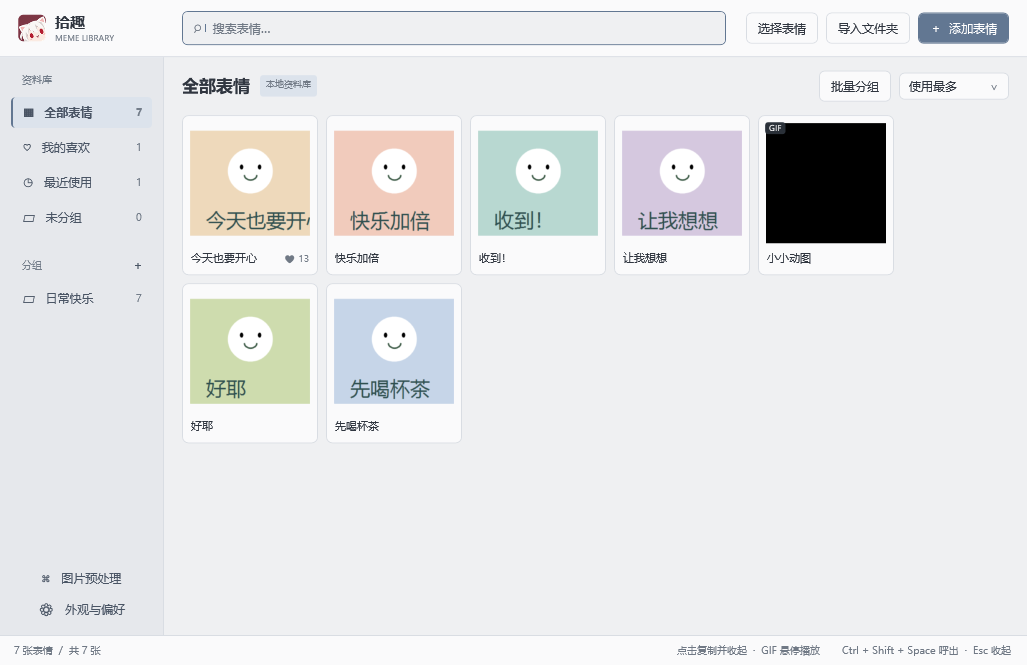
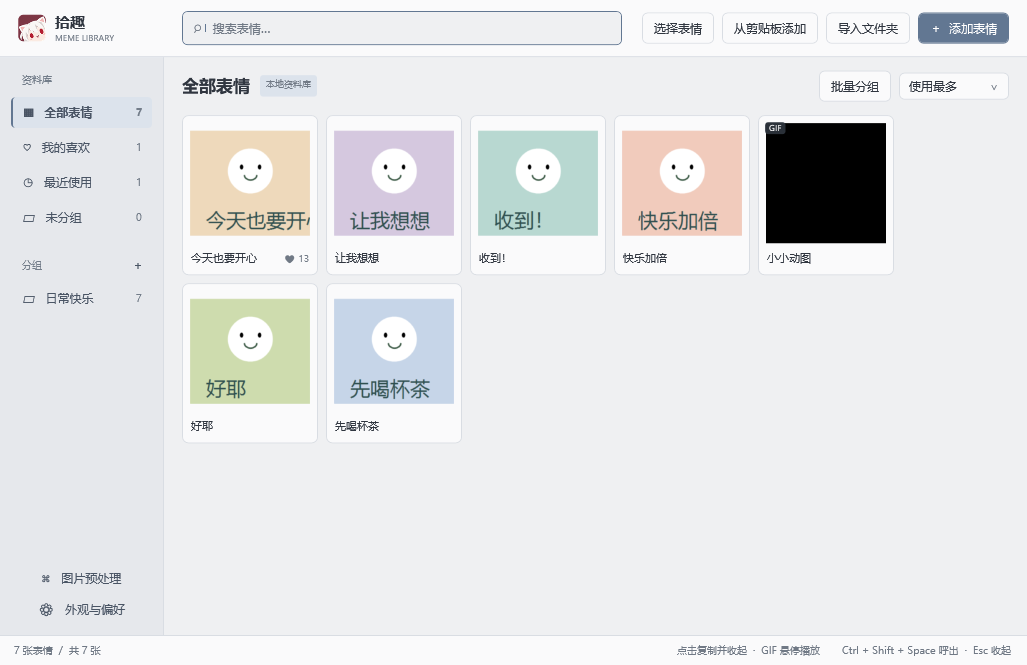
feat: import images and original GIFs from clipboard

diff --git a/MainWindow.xaml b/MainWindow.xaml
@@ -13,7 +13,7 @@
   <Border Background="{DynamicResource Surface}" BorderBrush="{DynamicResource Line}" BorderThickness="0,0,0,1"><Grid Margin="18,0,18,0"><Grid.ColumnDefinitions><ColumnDefinition Width="164"/><ColumnDefinition Width="*"/><ColumnDefinition Width="Auto"/></Grid.ColumnDefinitions>
    <StackPanel Orientation="Horizontal" VerticalAlignment="Center"><Image x:Name="BrandIcon" Width="28" Height="28" Margin="0,0,9,0"/><StackPanel><TextBlock Text="拾趣" FontSize="15" FontWeight="SemiBold"/><TextBlock Text="MEME LIBRARY" Foreground="{DynamicResource Muted}" FontSize="8" Margin="0,1,0,0"/></StackPanel></StackPanel>
    <Grid Grid.Column="1" Margin="0,11,20,11"><TextBox x:Name="Search" ToolTip="搜索表情名称"/><TextBlock x:Name="SearchHint" Text="⌕   搜索表情…" Foreground="{DynamicResource Muted}" IsHitTestVisible="False" VerticalAlignment="Center" Margin="11,0,0,0"/></Grid>
-   <StackPanel Grid.Column="2" Orientation="Horizontal" VerticalAlignment="Center"><Button x:Name="OpenPicker" Content="选择表情" Margin="0,0,8,0"/><Button x:Name="ImportFolder" Content="导入文件夹" Margin="0,0,8,0"/><Button x:Name="ImportFiles" Content="＋  添加表情" Background="{DynamicResource Accent}" BorderBrush="{DynamicResource Accent}" Foreground="White"/></StackPanel>
+   <StackPanel Grid.Column="2" Orientation="Horizontal" VerticalAlignment="Center"><Button x:Name="OpenPicker" Content="选择表情" Margin="0,0,8,0"/><Button x:Name="ImportClipboard" Content="从剪贴板添加" ToolTip="导入剪贴板中的图片或图片文件到当前分组" Margin="0,0,8,0"/><Button x:Name="ImportFolder" Content="导入文件夹" Margin="0,0,8,0"/><Button x:Name="ImportFiles" Content="＋  添加表情" Background="{DynamicResource Accent}" BorderBrush="{DynamicResource Accent}" Foreground="White"/></StackPanel>
   </Grid></Border>
   <Grid Grid.Row="1"><Grid.ColumnDefinitions><ColumnDefinition Width="164"/><ColumnDefinition Width="*"/></Grid.ColumnDefinitions>
    <Border Background="{DynamicResource Side}" BorderBrush="{DynamicResource Line}" BorderThickness="0,0,1,0"><Grid Margin="10,16,10,10"><Grid.RowDefinitions><RowDefinition Height="Auto"/><RowDefinition Height="*"/><RowDefinition Height="Auto"/></Grid.RowDefinitions>

diff --git a/App.cs b/App.cs
@@ -34,7 +34,7 @@ namespace MemeManager {
    groups.SelectionChanged+=(s,e)=>{if(rebuilding||groups.SelectedItem==null)return;filter=(string)((ListBoxItem)groups.SelectedItem).Tag;rebuilding=true;navigation.SelectedIndex=-1;rebuilding=false;Refresh();};
    searchTimer=new DispatcherTimer {Interval=TimeSpan.FromMilliseconds(180)};searchTimer.Tick+=(s,e)=>{searchTimer.Stop();Refresh();};
    search.TextChanged+=(s,e)=>{Find<TextBlock>("SearchHint").Visibility=search.Text.Length==0?Visibility.Visible:Visibility.Collapsed;searchTimer.Stop();searchTimer.Start();};sort.SelectionChanged+=(s,e)=>Refresh();
-   Click("ImportFiles",(s,e)=>ChooseFiles());Click("EmptyImport",(s,e)=>ChooseFiles());Click("ImportFolder",(s,e)=>ChooseFolder());Click("AddGroup",(s,e)=>NewGroup());Click("SettingsButton",(s,e)=>Settings());Click("OpenPicker",(s,e)=>ShowPicker());Click("PreprocessButton",(s,e)=>ShowPreprocessor());Click("BatchToggle",(s,e)=>ToggleBatchMode());Click("BatchSelectAll",(s,e)=>{foreach(var item in visible)batchSelected.Add(item.Id);UpdateBatchUI();RedrawBatchCards();});Click("BatchClear",(s,e)=>{batchSelected.Clear();UpdateBatchUI();RedrawBatchCards();});Click("BatchMove",(s,e)=>{try{var target=Find<ComboBox>("BatchGroup").SelectedItem as PickerGroup;if(target!=null)MoveBatch(target.Id);}catch(Exception ex){Report(ex);}});UpdateBatchUI();
+   Click("ImportClipboard",(s,e)=>AddFromClipboard());Click("ImportFiles",(s,e)=>ChooseFiles());Click("EmptyImport",(s,e)=>ChooseFiles());Click("ImportFolder",(s,e)=>ChooseFolder());Click("AddGroup",(s,e)=>NewGroup());Click("SettingsButton",(s,e)=>Settings());Click("OpenPicker",(s,e)=>ShowPicker());Click("PreprocessButton",(s,e)=>ShowPreprocessor());Click("BatchToggle",(s,e)=>ToggleBatchMode());Click("BatchSelectAll",(s,e)=>{foreach(var item in visible)batchSelected.Add(item.Id);UpdateBatchUI();RedrawBatchCards();});Click("BatchClear",(s,e)=>{batchSelected.Clear();UpdateBatchUI();RedrawBatchCards();});Click("BatchMove",(s,e)=>{try{var target=Find<ComboBox>("BatchGroup").SelectedItem as PickerGroup;if(target!=null)MoveBatch(target.Id);}catch(Exception ex){Report(ex);}});UpdateBatchUI();
    window.Drop+=(s,e)=>{if(e.Data.GetDataPresent(DataFormats.FileDrop))BeginImport((string[])e.Data.GetData(DataFormats.FileDrop));};
    window.PreviewDragOver+=(s,e)=>{e.Effects=e.Data.GetDataPresent(DataFormats.FileDrop)?DragDropEffects.Copy:DragDropEffects.None;e.Handled=true;};
    window.PreviewKeyDown+=(s,e)=>{if(e.Key==Key.Escape){window.Hide();e.Handled=true;}};
@@ -144,11 +144,25 @@ namespace MemeManager {
   void CompleteCopy(Meme meme,Window origin){meme.Uses++;meme.LastUsed=DateTime.Now;Save();origin.Hide();RefreshNavigation();Refresh();}
   void ChooseFiles(){var dialog=new Microsoft.Win32.OpenFileDialog{Title="添加表情",Multiselect=true,Filter="图片与动图|*.gif;*.png;*.jpg;*.jpeg;*.bmp;*.tif;*.tiff;*.webp|所有文件|*.*"};if(dialog.ShowDialog(window)==true)BeginImport(dialog.FileNames);}
   void ChooseFolder(){try{string path=Native.PickFolder(handle);if(path!=null)BeginImport(new[]{path});}catch(Exception ex){Report(ex);}}
-  async void BeginImport(string[] paths){if(importing){MessageBox.Show(window,"当前导入尚未完成，请稍候。","正在导入");return;}importing=true;importCancellation=new CancellationTokenSource();Find<Button>("ImportFiles").IsEnabled=false;Find<Button>("ImportFolder").IsEnabled=false;
+  bool readingClipboard;
+  async void AddFromClipboard(){
+   if(importing||readingClipboard){status.Text="当前导入尚未完成，请稍候。";return;}
+   readingClipboard=true;Find<Button>("ImportClipboard").IsEnabled=false;
+   try{
+    IDataObject data=null;for(int attempt=0;attempt<4;attempt++){try{data=Clipboard.GetDataObject();break;}catch(System.Runtime.InteropServices.COMException){if(attempt==3)throw;}await Task.Delay(60);}
+    using(var prepared=ClipboardImages.Prepare(data,library.Root)){
+     if(prepared.Paths.Length==0){status.Text="剪贴板中没有可导入的图片，请先复制图片或图片文件。";return;}
+     await ImportPathsAsync(prepared.Paths);
+    }
+   }catch(Exception ex){MessageBox.Show(window,ex.Message,"无法从剪贴板添加",MessageBoxButton.OK,MessageBoxImage.Warning);}
+   finally{readingClipboard=false;Find<Button>("ImportClipboard").IsEnabled=!importing;}
+  }
+  async void BeginImport(string[] paths){await ImportPathsAsync(paths);}
+  async Task ImportPathsAsync(string[] paths){if(importing){MessageBox.Show(window,"当前导入尚未完成，请稍候。","正在导入");return;}importing=true;importCancellation=new CancellationTokenSource();Find<Button>("ImportClipboard").IsEnabled=false;Find<Button>("ImportFiles").IsEnabled=false;Find<Button>("ImportFolder").IsEnabled=false;
    var progress=Dialog("收集快乐",390,210);var panel=new StackPanel{Margin=new Thickness(25)};var message=new TextBlock{Text="正在导入图片，包含子文件夹…",Foreground=BrushFor("Ink"),Margin=new Thickness(0,0,0,20)};panel.Children.Add(message);panel.Children.Add(new ProgressBar{IsIndeterminate=true,Height=5});var cancel=new Button{Content="取消导入",Margin=new Thickness(0,20,0,0)};cancel.Click+=(s,e)=>{importCancellation.Cancel();cancel.IsEnabled=false;message.Text="正在完成当前文件…";};panel.Children.Add(cancel);progress.Content=panel;progress.Closing+=(s,e)=>{if(importing){e.Cancel=true;importCancellation.Cancel();}};progress.Show();
    try{string groupId=library.Data.Groups.Any(x=>x.Id==filter)?filter:null;var known=new HashSet<string>(library.Data.Memes.Select(x=>x.Id));var result=await Task.Run(()=>library.Import(paths,groupId,known,importCancellation.Token,n=>window.Dispatcher.BeginInvoke(new Action(()=>message.Text="已检查 "+n+" 张图片…"))));
     library.Data.Memes.AddRange(result.Items);Save();RefreshNavigation();Refresh();status.Text=string.Format("{0}导入 {1} 张 · 重复 {2} 张 · 无法读取 {3} 张",result.Cancelled?"已取消，已保留 ":"已",result.Items.Count,result.Duplicates,result.Errors);
-   }catch(Exception ex){Report(ex);}finally{importing=false;progress.Close();importCancellation.Dispose();Find<Button>("ImportFiles").IsEnabled=true;Find<Button>("ImportFolder").IsEnabled=true;ProcessPendingImports();}}
+   }catch(Exception ex){Report(ex);}finally{importing=false;progress.Close();importCancellation.Dispose();Find<Button>("ImportClipboard").IsEnabled=!readingClipboard;Find<Button>("ImportFiles").IsEnabled=true;Find<Button>("ImportFolder").IsEnabled=true;ProcessPendingImports();}}
   void NewGroup(){string name=Prompt("新建分组","把同一种快乐放在一起","");if(name==null)return;var group=new Group{Id=Guid.NewGuid().ToString("N"),Name=name};library.Data.Groups.Add(group);Save();filter=group.Id;RefreshNavigation();Refresh();}
   void RenameGroup(Group group){string name=Prompt("重命名分组","分组名称",group.Name);if(name!=null){group.Name=name;Save();RefreshNavigation();Refresh();}}
   void RemoveGroup(Group group){if(MessageBox.Show(window,"删除「"+group.Name+"」分组？其中的表情将移至未分组。","删除分组",MessageBoxButton.YesNo)!=MessageBoxResult.Yes)return;foreach(var item in library.Data.Memes.Where(x=>x.GroupId==group.Id))item.GroupId=null;library.Data.Groups.Remove(group);if(filter==group.Id)filter="all";Save();RefreshNavigation();Refresh();}

diff --git a/tests/SmokeTests.cs b/tests/SmokeTests.cs
@@ -26,6 +26,12 @@ class SmokeTests {
   File.Copy(Path.Combine(inputs,captions[0]+".png"),Path.Combine(inputs,"nested","duplicate.png"),true);File.WriteAllText(Path.Combine(inputs,"broken.gif"),"not an image");
[1 lines of base64/hex data omitted]
   byte[] gif=Enumerable.Range(0,gifHex.Length/2).Select(i=>Convert.ToByte(gifHex.Substring(i*2,2),16)).ToArray();File.WriteAllBytes(Path.Combine(inputs,"小小动图.gif"),gif);
+  var clipboardLibrary=new Library(Path.Combine(root,"clipboard-library"));var clipboardFiles=new DataObject();clipboardFiles.SetFileDropList(new System.Collections.Specialized.StringCollection{Path.Combine(inputs,"小小动图.gif"),Path.Combine(inputs,captions[0]+".png")});clipboardFiles.SetImage(BitmapFrame.Create(new Uri(Path.Combine(inputs,captions[0]+".png"))));
+  using(var prepared=ClipboardImages.Prepare(clipboardFiles,clipboardLibrary.Root)){Check(prepared.Paths.Length==2&&prepared.Paths[0].EndsWith(".gif"),"clipboard prefers original image files over bitmap fallback");var clipResult=clipboardLibrary.Import(prepared.Paths,"clip-group",new HashSet<string>(),CancellationToken.None,n=>{});Check(clipResult.Items.Count==2&&clipResult.Items.All(x=>x.GroupId=="clip-group")&&File.ReadAllBytes(clipboardLibrary.FileFor(clipResult.Items.Single(x=>x.Extension==".gif"))).SequenceEqual(gif),"clipboard file import preserves GIF bytes and target group");clipboardLibrary.Data.Memes.AddRange(clipResult.Items);}Check(File.Exists(Path.Combine(inputs,"小小动图.gif")),"clipboard cleanup never deletes original files");
+  string stagedGif;var rawGif=new DataObject();using(var gifStream=new MemoryStream(gif)){gifStream.Position=3;rawGif.SetData("GIF",gifStream);using(var prepared=ClipboardImages.Prepare(rawGif,clipboardLibrary.Root)){stagedGif=prepared.Paths.Single();Check(gifStream.Position==3&&File.ReadAllBytes(stagedGif).SequenceEqual(gif)&&!StoragePaths.IsOnC(stagedGif),"raw clipboard GIF uses non-C staging and restores stream position");var duplicate=clipboardLibrary.Import(prepared.Paths,null,new HashSet<string>(clipboardLibrary.Data.Memes.Select(x=>x.Id)),CancellationToken.None,n=>{});Check(duplicate.Duplicates==1&&duplicate.Items.Count==0,"clipboard import uses existing content deduplication");}Check(!File.Exists(stagedGif)&&!Directory.Exists(Path.GetDirectoryName(stagedGif)),"clipboard temporary files are removed after import");Check(gifStream.CanRead,"clipboard source stream remains owned by its caller");}
+  var bitmapData=new DataObject();bitmapData.SetImage(BitmapSource.Create(2,1,96,96,PixelFormats.Bgra32,null,new byte[]{0,0,255,255,0,0,0,0},8));using(var prepared=ClipboardImages.Prepare(bitmapData,clipboardLibrary.Root)){using(var stream=File.OpenRead(prepared.Paths.Single())){var decoded=BitmapFrame.Create(stream,BitmapCreateOptions.None,BitmapCacheOption.OnLoad);var bgra=new FormatConvertedBitmap(decoded,PixelFormats.Bgra32,null,0);var pixels=new byte[8];bgra.CopyPixels(pixels,8,0);Check(decoded.PixelWidth==2&&pixels[3]==255&&pixels[7]==0,"clipboard bitmap converts to PNG preserving transparency");}}
+  var pngData=new DataObject();pngData.SetData("PNG",File.ReadAllBytes(Path.Combine(inputs,captions[0]+".png")));using(var prepared=ClipboardImages.Prepare(pngData,clipboardLibrary.Root))Check(File.ReadAllBytes(prepared.Paths.Single()).SequenceEqual((byte[])pngData.GetData("PNG")),"clipboard PNG payload is preserved without re-encoding");
+  var textData=new DataObject();textData.SetText("no image");using(var prepared=ClipboardImages.Prepare(textData,clipboardLibrary.Root))Check(prepared.Paths.Length==0,"text-only clipboard is ignored without downloading anything");
   var library=new Library(Path.Combine(root,"library"));var result=library.Import(new[]{inputs},"test-group",new HashSet<string>(),CancellationToken.None,n=>{});
   Check(result.Items.Count==7,"folder import includes valid PNG and animated GIF");Check(result.Duplicates==1,"nested duplicate detected");Check(result.Errors==1,"corrupt GIF rejected without interrupting import");Check(result.Items.All(x=>x.GroupId=="test-group"),"import assigns current group");
   library.Data.Memes.AddRange(result.Items);library.Data.Groups.Add(new Group{Id="test-group",Name="日常快乐"});library.Save();

diff --git a/ClipboardImages.cs b/ClipboardImages.cs
@@ -1,0 +1,37 @@
+using System;
+using System.IO;
+using System.Linq;
+using System.Windows;
+using System.Windows.Media.Imaging;
+
+namespace MemeManager {
+ // Own only our staging directory, never the clipboard's original files or streams.
+ public sealed class ClipboardImages : IDisposable {
+  public string[] Paths {get;private set;} string staging;
+  const int Limit=50*1024*1024;
+  ClipboardImages(){Paths=new string[0];}
+  public static ClipboardImages Prepare(IDataObject data,string root){
+   var result=new ClipboardImages();if(data==null)return result;
+   try{
+    if(data.GetDataPresent(DataFormats.FileDrop)){
+     var files=data.GetData(DataFormats.FileDrop) as string[];
+     if(files!=null){result.Paths=files.Where(p=>!string.IsNullOrEmpty(p)&&File.Exists(p)&&Library.Supported(p)).Distinct(StringComparer.OrdinalIgnoreCase).ToArray();if(result.Paths.Length>0)return result;}
+    }
+    foreach(string format in new[]{"GIF","image/gif","PNG","image/png"}){
+     if(!data.GetDataPresent(format,false))continue;object value=data.GetData(format,false);byte[] bytes=value as byte[];
+     if(bytes==null&&value is Stream){var input=(Stream)value;long position=input.CanSeek?input.Position:0;
+      try{if(input.CanSeek)input.Position=0;using(var output=new MemoryStream()){var buffer=new byte[8192];int count;while((count=input.Read(buffer,0,buffer.Length))>0){if(output.Length+count>Limit)throw new IOException("剪贴板图片请小于 50 MB。");output.Write(buffer,0,count);}bytes=output.ToArray();}}
+      finally{if(input.CanSeek)input.Position=position;}
+     }
+     if(bytes==null||bytes.Length==0)continue;if(bytes.Length>Limit)throw new IOException("剪贴板图片请小于 50 MB。");
+     bool gif=format.IndexOf("gif",StringComparison.OrdinalIgnoreCase)>=0;result.Stage(root,bytes,gif?".gif":".png");return result;
+    }
+    var image=data.GetData(DataFormats.Bitmap,true) as BitmapSource;
+    if(image!=null){if((long)image.PixelWidth*image.PixelHeight>100000000)throw new IOException("剪贴板图片尺寸过大，请先缩小图片。");using(var output=new MemoryStream()){var encoder=new PngBitmapEncoder();encoder.Frames.Add(BitmapFrame.Create(image));encoder.Save(output);if(output.Length>Limit)throw new IOException("剪贴板图片请小于 50 MB。");result.Stage(root,output.ToArray(),".png");}}
+    return result;
+   }catch{result.Dispose();throw;}
+  }
+  void Stage(string root,byte[] bytes,string extension){staging=Path.Combine(StoragePaths.RequireNonC(root),"temp","clipboard-"+Guid.NewGuid().ToString("N"));Directory.CreateDirectory(staging);string path=Path.Combine(staging,"剪贴板_"+DateTime.Now.ToString("yyyyMMdd_HHmmss")+extension);File.WriteAllBytes(path,bytes);Paths=new[]{path};}
+  public void Dispose(){if(staging==null)return;try{foreach(var file in Directory.GetFiles(staging))File.Delete(file);Directory.Delete(staging);}catch{}staging=null;}
+ }
+}

diff --git a/ImportBridge.cs b/ImportBridge.cs
@@ -27,7 +27,7 @@ namespace MemeManager {
   bool processingImportRequests;
   void ProcessPendingImports(){window.Dispatcher.BeginInvoke(new Action(ProcessPendingImportsCore));}
   async void ProcessPendingImportsCore(){
-   if(processingImportRequests||importing)return;processingImportRequests=true;importing=true;Find<System.Windows.Controls.Button>("ImportFiles").IsEnabled=false;Find<System.Windows.Controls.Button>("ImportFolder").IsEnabled=false;
+   if(processingImportRequests||importing)return;processingImportRequests=true;importing=true;Find<System.Windows.Controls.Button>("ImportClipboard").IsEnabled=false;Find<System.Windows.Controls.Button>("ImportFiles").IsEnabled=false;Find<System.Windows.Controls.Button>("ImportFolder").IsEnabled=false;
    try{ProcessedImportRequest request;while((request=ImportBridge.Next(library.Root))!=null){var response=new ProcessedImportResponse();var added=new List<Meme>();try{
      string group=library.Data.Groups.Any(g=>g.Id==request.GroupId)?request.GroupId:null;
      string[] files=request.Files.Where(p=>!string.IsNullOrWhiteSpace(p)&&Path.IsPathRooted(p)&&!Directory.Exists(p)&&Library.Supported(p)).ToArray();response.Failed=request.Files.Length-files.Length;
@@ -38,7 +38,7 @@ namespace MemeManager {
      RefreshNavigation();Refresh();if(picker!=null&&picker.IsVisible)RefreshPicker();status.Text="预处理结果：已导入 "+response.Imported+" 张 · 重复 "+response.Duplicates+" 张 · 失败 "+response.Failed+" 张";
     }catch(Exception ex){response.Error=ex.Message;}ImportBridge.Complete(library.Root,request.Id,response);}
    }catch(Exception ex){status.Text="预处理结果导入失败："+ex.Message;}
-   finally{processingImportRequests=false;importing=false;Find<System.Windows.Controls.Button>("ImportFiles").IsEnabled=true;Find<System.Windows.Controls.Button>("ImportFolder").IsEnabled=true;}
+   finally{processingImportRequests=false;importing=false;Find<System.Windows.Controls.Button>("ImportClipboard").IsEnabled=!readingClipboard;Find<System.Windows.Controls.Button>("ImportFiles").IsEnabled=true;Find<System.Windows.Controls.Button>("ImportFolder").IsEnabled=true;}
   }
  }
 }

diff --git a/docs/usage.md b/docs/usage.md
@@ -18,6 +18,7 @@ Windows 原生表情收藏夹。WPF + 系统自带 .NET Framework 4.8，无 WebV
 选择器首次使用时才创建，使用与管理窗口共享的资料库、主题与缩略图缓存；卡片按视口创建，隐藏后释放图片引用。
 
 - 添加表情：选择多张图片，拖入图片 / 文件夹，或批量导入文件夹（包括子文件夹，跳过目录链接）。按 SHA-256 去重，保留原始 GIF。
+- 从剪贴板添加：复制图片文件、截图或图片后，点击管理窗口顶部「从剪贴板添加」。多张图片文件可一次导入；先选中左侧分组即可直接导入该组。优先使用原文件，其次读取 GIF / PNG 数据，最后将位图保存为 PNG。原文件或 GIF 数据可保留动画；剪贴板只有位图时只能得到静态图。自动去重，不修改剪贴板内容，不读取纯文本网址或下载网络图片。剪贴板图片的临时副本放在非 C 盘资料库的 `temp` 中，导入完成、取消或失败后清理；只在点击按钮时读取，没有后台监听。内嵌图片限制 50 MB，位图限制 1 亿像素。
 - 分组：侧栏 `＋` 新建，右键分组重命名或删除；右键表情移动分组、重命名、喜欢或删除。删除分组保留表情。
 - 批量分组：点击管理页「批量分组」，逐张勾选表情，或点击「全选当前结果」，选择目标分组后点「加入分组」。搜索和滚动不会丢失已勾选的表情；可清空选择，或点「完成选择」退出。选择模式下点击图片只勾选，不复制。先选中左侧分组，再多选添加图片、拖入图片或导入文件夹，可直接批量导入该分组。
 - 搜索与排序：名称搜索；使用最多、最近添加、最近使用、名称排序。

diff --git a/README.md b/README.md
@@ -26,7 +26,7 @@ Windows 原生表情收藏夹 · 独立快捷选择器 · 保留动图 · 按需
 
 | 收藏与整理 | 呼出与使用 | 处理与定制 |
 | :--- | :--- | :--- |
-| 多选、拖放、整文件夹批量导入 | `Ctrl + Shift + Space` 独立选择器 | 独立 FFmpeg 批处理工具，调用时才运行 |
+| 多选、拖放、剪贴板、整文件夹导入 | `Ctrl + Shift + Space` 独立选择器 | 独立 FFmpeg 批处理工具，调用时才运行 |
 | 分组、批量分组、名称搜索、SHA-256 去重 | 按使用频率或最近使用查找 | 其它格式批量转 GIF，支持保留动图 |
 | 保存 GIF 原文件，悬停播放缩略图 | 点击复制到剪贴板，选择器自动收起 | 统一尺寸，处理完成一键导入分组 |
 | 图片与资料库保存在非 C 盘 | 托盘驻留，可选登录 Windows 自启 | 四款主题、导入背景图片、自定义配色与卡片样式 |
